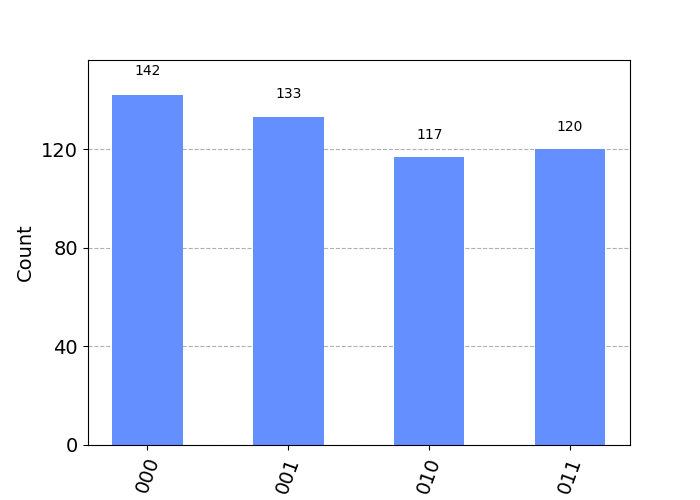
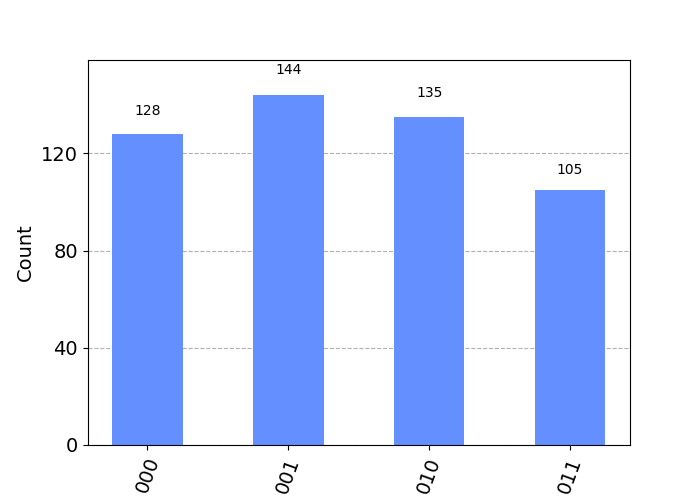
Testing Simons

diff --git a/simon/simon_2.py b/simon/simon_2.py
@@ -10,7 +10,8 @@ n = 3
 
 def f(x):
     """ Our 2-1 function with iff f(x) = f(y) then x + y = 0,s """
-    return x % 2**(n-1)
+    # return x % 2**(n-1)
+    return [5, 2, 0, 6, 5, 2, 0, 6][x]
 
 # ----- DON'T EDIT BELOW! -----
 N = 2**n
@@ -32,9 +33,12 @@ def transpose(M: list[list]) -> list[list]:
 # build Simon's black box
 Bf = transpose([_Bf_column(y, x) for y in range(N) for x in range(N)])
 
-def print_mat(M: list[list]) -> None:
+def print_mat(M: list[list], augmented=False) -> None:
     for i in range(len(M)):
-        for j in range(len(M[i])):
+        COLS = len(M[i])
+        for j in range(COLS):
+            if augmented and j ==  COLS - 1:
+                print("|", end="")
             print(M[i][j], end="")
         print()
 
@@ -77,12 +81,11 @@ def pivots(M: list[list]):
     ```
     """
     ROWS = len(M)
-    COLS = len(M[0])
 
     pivots = []
     i = 0
     j = 0
-    while i < ROWS and j < COLS:
+    while i < ROWS and j < len(M[i]):
         if M[i][j] == 1:
             yield j
             i += 1
@@ -93,8 +96,15 @@ def rank(M: list[list]) -> int:
 
 
 if __name__ == "__main__":
-    print(rref_mod2([[1,0],[1, 0]]))
+    print("Bf:")
     print_mat(Bf)
+    print()
+
+    print("x -> f(X)")
+    for x in range(N):
+        print(x, "->", f(x))
+    print()
+
     Uf = UnitaryGate(Bf, label="Bf")
 
     x = QuantumRegister(n, "x")
@@ -116,7 +126,7 @@ if __name__ == "__main__":
     # post-processing:
     count = 0  # iteration count
     solutions = set()  # store solution set {y | y*s = 0}
-    Y = [[0 for _ in range(n + 1)]]  # augmented solution matrix [solutions|0] in RREF
+    Y = []  # augmented solution matrix [solutions|0] in RREF
     while rank(Y) < n - 1:
         # run until we get a new solution, y
         y = next(iter(backend.run(qc, shots=1).result().get_counts()))
@@ -129,7 +139,10 @@ if __name__ == "__main__":
         # solve for s with what we have so far
         rref_mod2(Y)
         Y = [row for row in Y if not all([ele == 0 for ele in row])]  # remove all 0 rows
-    
+    print()
+
     # print solution
-    print("Augmented solution matirx:", Y)
+    print("Augmented solution matirx (RREF):")
+    print_mat(Y, augmented=True)
+    print()
     print("Iterations: ", count)
